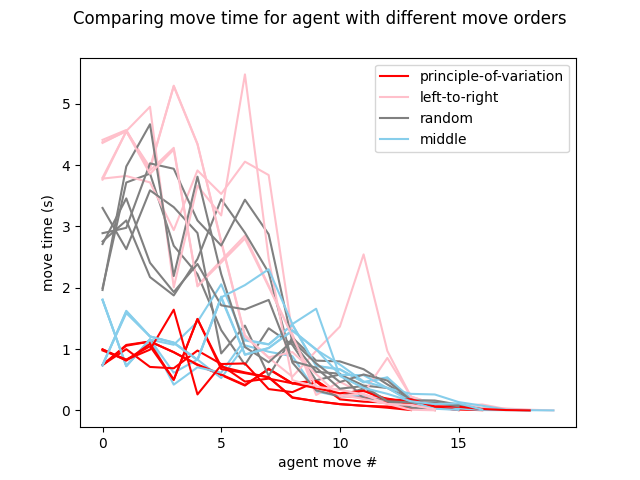
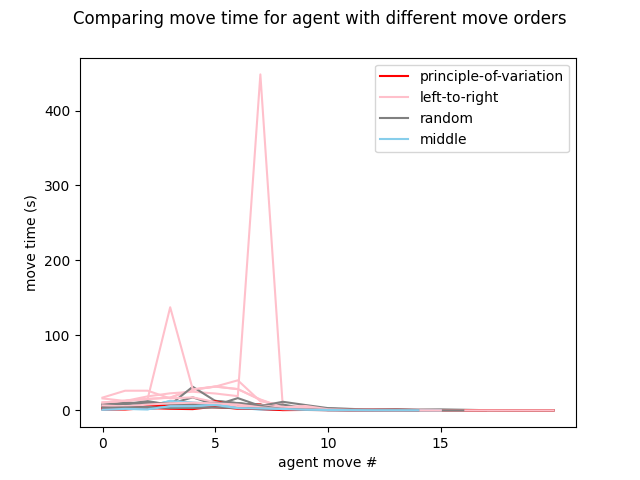
final changes

diff --git a/plot_timetable.py b/plot_timetable.py
@@ -43,7 +43,7 @@ for i in range(len(player_game_timetable['pv'])):
     #plt.xlabel('agent move #')
     plt.ylabel('move time (s)')
     plt.xticks(range(0,20,5))
-    plt.ylim(0,7)
+    plt.ylim(0,50)
     plt.legend(['principle-of-variation'], fontsize=8)
 
     plt.subplot(2,2,2)
@@ -51,7 +51,7 @@ for i in range(len(player_game_timetable['pv'])):
     #plt.xlabel('agent move #')
     #plt.ylabel('move time (s)')
     plt.xticks(range(0,20,5))
-    plt.ylim(0,7)
+    plt.ylim(0,50)
     plt.legend(['left-to-right'], fontsize=8)
 
     plt.subplot(2,2,3)
@@ -59,7 +59,7 @@ for i in range(len(player_game_timetable['pv'])):
     plt.xlabel('agent move #')
     plt.ylabel('move time (s)')
     plt.xticks(range(0,20,5))
-    plt.ylim(0,7)
+    plt.ylim(0,50)
     plt.legend(['random'], fontsize=8)
     
     plt.subplot(2,2,4)
@@ -67,7 +67,7 @@ for i in range(len(player_game_timetable['pv'])):
     plt.xlabel('agent move #')
     #plt.ylabel('move time (s)')
     plt.xticks(range(0,20,5))
-    plt.ylim(0,7)
+    plt.ylim(0,50)
     plt.legend(['middle'], fontsize=8)
     
 

diff --git a/agents/agent_negamax/negamax_bitstring_heuristics.py b/agents/agent_negamax/negamax_bitstring_heuristics.py
@@ -115,7 +115,7 @@ def iterative_deepening_bitstring(board, agent_piece: BoardPiece,  saved_state =
     Returns:
         tuple[int, dict]: A tuple containing the best move and a dictionary containing information about the search.
     """
-    Node.reset()
+    # Node.reset()
     set_players_pieces(agent_piece)
     parent_board = board_to_bitstring(board)
     # parent_board = copy.deepcopy(board)
@@ -168,7 +168,7 @@ def check_terminal(board:list[str,str], playerview:PlayerView) -> tuple[bool,int
     # from the minimizer's point of view, maximizer's win is alway -1000.
     # the same is true for maximizer's point of view.
     if lastmove_result == GameState.IS_WIN:
-        terminal, terminal_score = True, float('-inf')
+        terminal, terminal_score = True, -1000 # float('-inf')
     elif lastmove_result == GameState.IS_DRAW:
         terminal, terminal_score = True, 0
     return terminal, terminal_score

diff --git a/grid_search_timetable.py b/grid_search_timetable.py
@@ -93,8 +93,8 @@ if __name__ == "__main__":
         for j in iterator:
             game_players[f'game{k}']=[methods[i], methods[j]]
 
-            partial_agent_move1=partial(iterative_deepening_bitstring, method=methods[i])
-            partial_agent_move2=partial(iterative_deepening_bitstring,method=methods[j])
+            partial_agent_move1=partial(iterative_deepening_bitstring, three_piece=8, two_piece=1, method=methods[i])
+            partial_agent_move2=partial(iterative_deepening_bitstring, three_piece=8, two_piece=1, method=methods[j])
             output=agent_vs_agent_timing(generate_move_1=partial_agent_move1,generate_move_2=partial_agent_move2 ) 
             game_score[f'game{k}']=output
             k+=1

diff --git a/grid_search_move_ordering.py b/grid_search_move_ordering.py
@@ -19,8 +19,8 @@ if __name__ == "__main__":
     for i in range(4):
         iterator=[x for x in range(4) if x != i]
         for j in iterator:
-            partial_agent_move1=partial(iterative_deepening_bitstring, method=methods[i])
-            partial_agent_move2=partial(iterative_deepening_bitstring,method=methods[j])
+            partial_agent_move1=partial(iterative_deepening_bitstring, three_piece=8, two_piece=1, method=methods[i])
+            partial_agent_move2=partial(iterative_deepening_bitstring,three_piece=8, two_piece=1, method=methods[j])
        
             output=agent_vs_agent(generate_move_1=partial_agent_move1,generate_move_2=partial_agent_move2 ) 
             if output[0]==1: 

diff --git a/grid_search_heuristics.py b/grid_search_heuristics.py
@@ -87,6 +87,7 @@ if __name__ == "__main__":
     for i in range(3):
         iterator=[x for x in range(3) if x != i]
         for j in iterator:
+            print(players[i], players[j])
             partial_agent_move1=partial(iterative_deepening_bitstring,three_piece=connected_three_pieces[i], two_piece=connected_two_pieces[i],method='pv')
             partial_agent_move2=partial(iterative_deepening_bitstring,three_piece=connected_three_pieces[j], two_piece=connected_two_pieces[j],method='pv')
        
